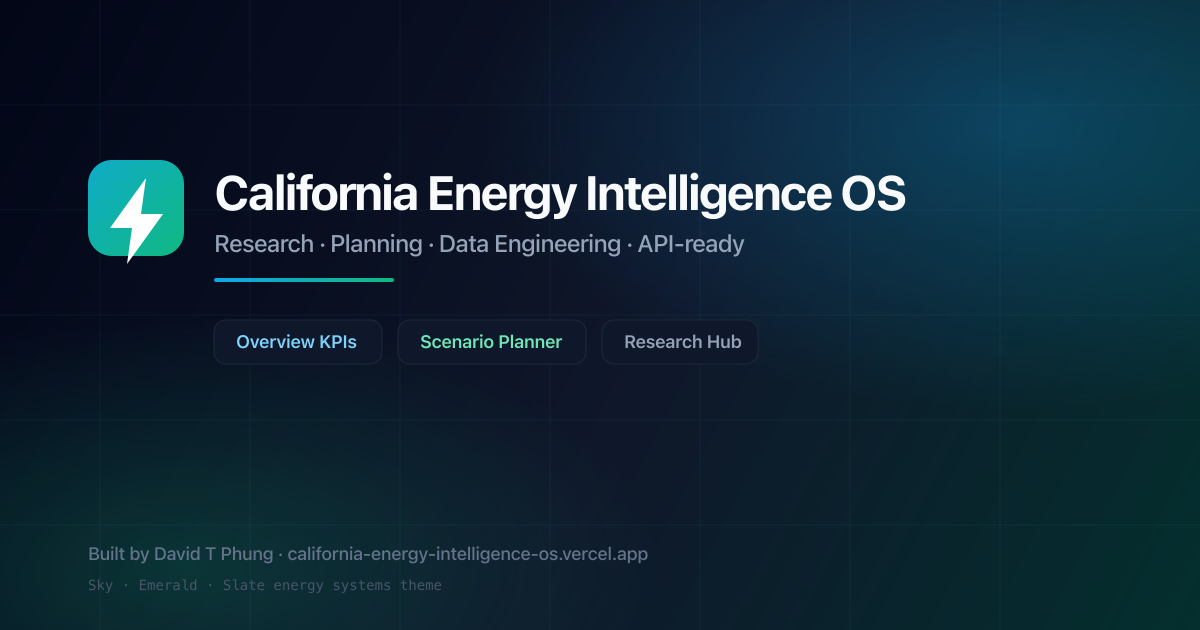
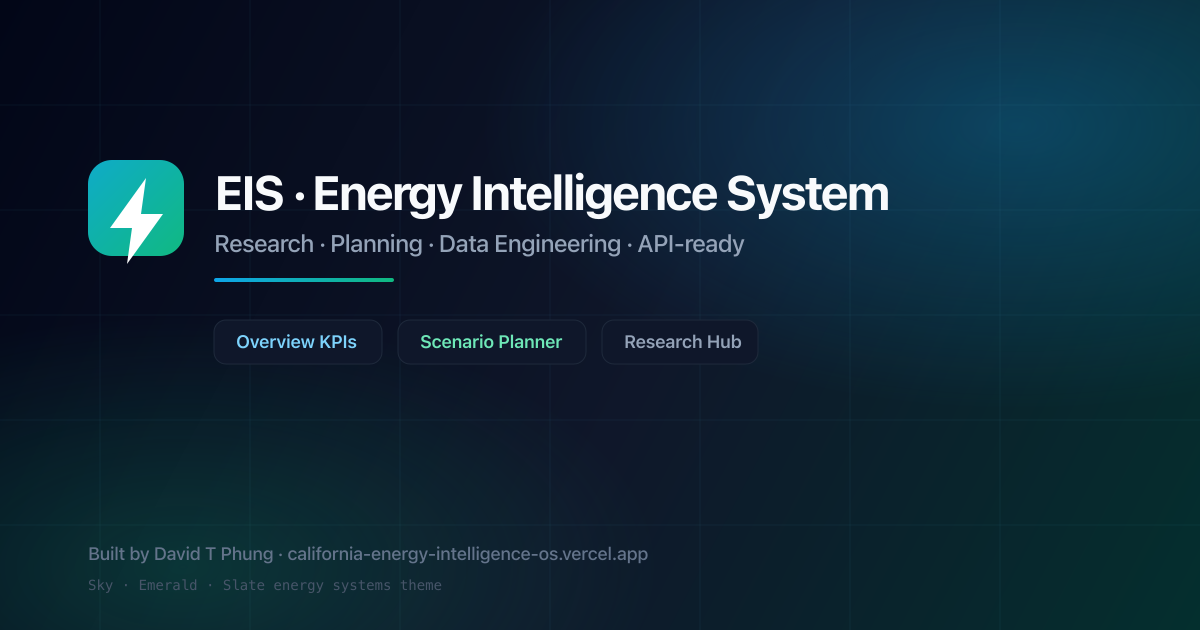
rename: brand as EIS Energy Intelligence System
Update product name, short mark EIS, titles, meta, manifest, and exports.

Changed region(s): [[0.185, 0.2714, 0.7708, 0.3619]]

diff --git a/index.html b/index.html
@@ -5,21 +5,20 @@
     <meta name="viewport" content="width=device-width, initial-scale=1.0" />
 
     <!-- Brand / tab -->
-    <title>California Energy Intelligence OS</title>
+    <title>EIS · Energy Intelligence System</title>
     <meta
       name="description"
-      content="California Energy Intelligence OS - research, planning, and developer dashboard for California electricity systems."
+      content="EIS · Energy Intelligence System - live grid, portfolios, scenarios, and multi-state energy research."
     />
     <meta name="author" content="David T Phung" />
-    <meta name="application-name" content="California Energy Intelligence OS" />
-    <meta name="color-scheme" content="dark light" />
+    <meta name="application-name" content="Energy Intelligence System" />
+    <meta name="color-scheme" content="light dark" />
     <meta name="theme-color" content="#ffffff" media="(prefers-color-scheme: light)" />
     <meta name="theme-color" content="#000000" media="(prefers-color-scheme: dark)" />
-    <meta name="color-scheme" content="light dark" />
     <script>
       (function () {
         try {
-          var t = localStorage.getItem('ceios-theme') || 'light'
+          var t = localStorage.getItem('eis-theme') || localStorage.getItem('ceios-theme') || 'light'
           document.documentElement.setAttribute('data-theme', t)
         } catch (e) {
           document.documentElement.setAttribute('data-theme', 'light')
@@ -27,40 +26,40 @@
       })()
     </script>
 
-    <!-- Favicons (sky-emerald brand mark) -->
+    <!-- Favicons -->
     <link rel="icon" type="image/svg+xml" href="/favicon.svg" />
     <link rel="icon" type="image/png" sizes="32x32" href="/favicon-32.png" />
     <link rel="icon" type="image/png" sizes="16x16" href="/favicon-16.png" />
     <link rel="apple-touch-icon" sizes="180x180" href="/apple-touch-icon.png" />
     <link rel="manifest" href="/site.webmanifest" />
 
-    <!-- Open Graph (link previews) -->
+    <!-- Open Graph -->
     <meta property="og:type" content="website" />
-    <meta property="og:site_name" content="California Energy Intelligence OS" />
-    <meta property="og:title" content="California Energy Intelligence OS" />
+    <meta property="og:site_name" content="Energy Intelligence System" />
+    <meta property="og:title" content="EIS · Energy Intelligence System" />
     <meta
       property="og:description"
-      content="Research, planning, and developer dashboard for California electricity systems - capacity, scenarios, and clean energy pathways."
+      content="Live grid, portfolios, scenarios, and multi-state energy research."
     />
     <meta property="og:url" content="https://california-energy-intelligence-os.vercel.app/" />
     <meta property="og:image" content="https://california-energy-intelligence-os.vercel.app/og-image.png" />
     <meta property="og:image:type" content="image/png" />
     <meta property="og:image:width" content="1200" />
     <meta property="og:image:height" content="630" />
-    <meta property="og:image:alt" content="California Energy Intelligence OS - sky and emerald energy dashboard" />
+    <meta property="og:image:alt" content="EIS · Energy Intelligence System" />
     <meta property="og:locale" content="en_US" />
 
-    <!-- X (Twitter) card meta -->
+    <!-- X card meta -->
     <meta name="twitter:card" content="summary_large_image" />
     <meta name="twitter:site" content="@davidtphung" />
     <meta name="twitter:creator" content="@davidtphung" />
-    <meta name="twitter:title" content="California Energy Intelligence OS" />
+    <meta name="twitter:title" content="EIS · Energy Intelligence System" />
     <meta
       name="twitter:description"
-      content="Research, planning, and developer dashboard for California electricity systems."
+      content="Live grid, portfolios, scenarios, and multi-state energy research."
     />
     <meta name="twitter:image" content="https://california-energy-intelligence-os.vercel.app/og-image.png" />
-    <meta name="twitter:image:alt" content="California Energy Intelligence OS brand card" />
+    <meta name="twitter:image:alt" content="EIS · Energy Intelligence System" />
 
     <link rel="preconnect" href="https://fonts.googleapis.com" />
     <link rel="preconnect" href="https://fonts.gstatic.com" crossorigin />

diff --git a/src/context/AppContext.tsx b/src/context/AppContext.tsx
@@ -57,9 +57,10 @@ const defaultFilters: Filters = {
 export function AppProvider({ children }: { children: ReactNode }) {
   const [theme, setTheme] = useState<'light' | 'dark'>(() => {
     if (typeof window === 'undefined') return 'light'
-    const stored = localStorage.getItem('ceios-theme') as 'light' | 'dark' | null
+    const stored =
+      (localStorage.getItem('eis-theme') as 'light' | 'dark' | null) ||
+      (localStorage.getItem('ceios-theme') as 'light' | 'dark' | null)
     if (stored) return stored
-    // Paper-first default (jacob.energy lineage)
     return 'light'
   })
   const [mode, setMode] = useState<AppMode>('analyst')
@@ -73,7 +74,7 @@ export function AppProvider({ children }: { children: ReactNode }) {
   useEffect(() => {
     document.documentElement.setAttribute('data-theme', theme)
     document.documentElement.classList.toggle('dark', theme === 'dark')
-    localStorage.setItem('ceios-theme', theme)
+    localStorage.setItem('eis-theme', theme)
     const color = theme === 'dark' ? '#000000' : '#ffffff'
     document
       .querySelectorAll('meta[name="theme-color"]')

diff --git a/src/components/layout/Sidebar.tsx b/src/components/layout/Sidebar.tsx
@@ -77,7 +77,7 @@ export function Sidebar() {
           </div>
           <div className="min-w-0">
             <p className="truncate text-sm font-bold tracking-tight text-slate-900 dark:text-white">
-              Energy Intelligence OS
+              Energy Intelligence System
             </p>
             <p className="truncate text-[11px] text-slate-500">California · {mode} mode</p>
           </div>
@@ -126,7 +126,7 @@ export function Sidebar() {
           <div className="flex items-center justify-between border-b border-slate-200 px-4 py-3 dark:border-slate-800">
             <div className="flex items-center gap-2">
               <Zap className="h-5 w-5 text-sky-500" aria-hidden />
-              <span className="text-sm font-bold">CEI OS</span>
+              <span className="text-sm font-bold">EIS</span>
             </div>
             <button
               type="button"

diff --git a/src/components/layout/AppShell.tsx b/src/components/layout/AppShell.tsx
@@ -64,7 +64,7 @@ export function AppShell({ children }: { children: ReactNode }) {
         generation: getGenerationBySource(filters),
         hourly: getHourlySeries(filters),
       },
-      `ceios-export-${filters.year}.json`
+      `eis-export-${filters.year}.json`
     )
   }
 
@@ -76,8 +76,8 @@ export function AppShell({ children }: { children: ReactNode }) {
 
       <nav className="rail" aria-label="Primary">
         <button type="button" className="brand" onClick={() => go('overview', 'overview')}>
-          <span className="brand-mark">CEI</span>
-          <span className="brand-dot">OS</span>
+          <span className="brand-mark">EIS</span>
+          <span className="brand-dot">Energy Intelligence System</span>
         </button>
 
         <ul className="menu-items">

diff --git a/src/components/layout/Header.tsx b/src/components/layout/Header.tsx
@@ -50,7 +50,7 @@ export function Header() {
         generation: getGenerationBySource(filters),
         hourly: getHourlySeries(filters),
       },
-      `ceios-export-${filters.year}.json`
+      `eis-export-${filters.year}.json`
     )
   }
 
@@ -69,7 +69,7 @@ export function Header() {
             </button>
             <div>
               <h1 className="text-base font-bold tracking-tight text-slate-900 dark:text-white sm:text-lg">
-                California Energy Intelligence OS
+                Energy Intelligence System
               </h1>
               <p className="hidden text-xs text-slate-500 sm:block">
                 Research · Planning · Data Engineering · API-ready

diff --git a/src/components/panels/OverviewDashboard.tsx b/src/components/panels/OverviewDashboard.tsx
@@ -40,7 +40,7 @@ export function OverviewDashboard() {
   return (
     <div>
       <div className="intro fadein t1">
-        <strong>California Energy Intelligence OS</strong>
+        <strong>Energy Intelligence System</strong>
         <p>
           Live CAISO grid telemetry for today, plus research and scenario tools for California
           electricity systems.

diff --git a/src/components/panels/DeveloperPanel.tsx b/src/components/panels/DeveloperPanel.tsx
@@ -201,7 +201,7 @@ export function DeveloperPanel() {
                         generation: getGenerationBySource(filters),
                         scenario: activeScenario,
                       },
-                      'ceios-snapshot.json'
+                      'eis-snapshot.json'
                     ),
                 },
                 {

diff --git a/src/index.css b/src/index.css
@@ -1,6 +1,6 @@
 @import "tailwindcss";
 
-/* CEI OS - jacob.energy-inspired: paper, ink, quiet motion */
+/* EIS · Energy Intelligence System - paper, ink, quiet motion */
 
 @custom-variant dark (&:where([data-theme="dark"], [data-theme="dark"] *));
 

diff --git a/src/types/index.ts b/src/types/index.ts
@@ -1,4 +1,4 @@
-/** Core domain types for California Energy Intelligence OS */
+/** Core domain types for Energy Intelligence System (EIS) */
 
 export type Technology =
   | 'solar'

diff --git a/README.md b/README.md
@@ -1,6 +1,6 @@
-# California Energy Intelligence OS
+# EIS · Energy Intelligence System
 
-A modern interactive web app for **California electricity research, planning, and developer workflows**. Built as a 1000×-quality dashboard with realistic sample data and an API-ready data model.
+A modern interactive web app for **energy research, planning, and developer workflows** (California live grid plus US state catalog). Realistic sample data and an API-ready data model.
 
 ## Features
 
